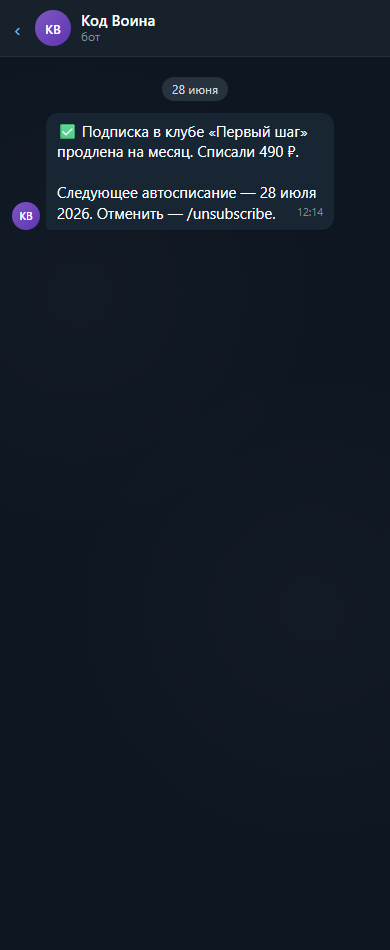
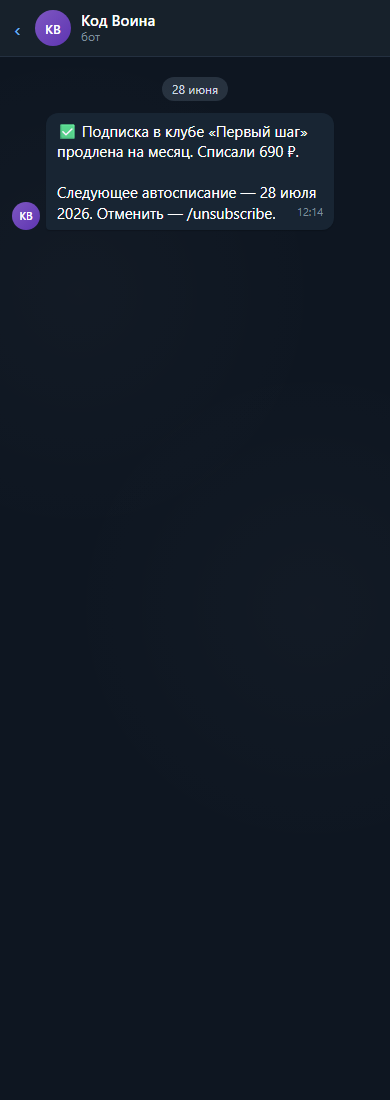
refactor: один продукт — клуб «Первый шаг» 690₽/мес с автопродлением
Убраны guide (990₽) и bundle (1390₽) из воронки. После видео сразу селлинг-сообщение про клуб и единственная кнопка «Войти в Первый шаг» → оплата YooKassa.

- config.js: YOOKASSA_AMOUNT_CLUB 490 → 690, убраны GUIDE/BUNDLE amounts
- messages.js: новый MSG3 (post-video продающий текст про комьюнити и челлендж + автопродление + /unsubscribe), BTN_ENTER_CLUB; удалены MSG_GUIDE/MSG_CLUB/MSG_BUNDLE/MSG_COMPLETED_GUIDE/BUNDLE и три buy-кнопки; везде 490 → 690; OFFER_REMINDERS переписаны без упоминания «Кода Воина»
- flow.js: AUTO_VIDEO → одна кнопка pay_club; убраны BTN_BUY_*, PAY_GUIDE/BUNDLE; handlePaymentSuccess только под club; AMOUNTS/STATES сжаты до club. BTN_RENEW_CLUB больше не шлёт MSG_CLUB (которого нет) — только createPayment
- scheduler.js: лог автосписания использует config.YOOKASSA_AMOUNT_CLUB вместо хардкода
- telegram.js: убраны registerAction buy_guide/bundle/club + pay_guide/bundle; savePaymentMethod упрощён под единственный продукт
- bot_spec_v3.md: раздел автопродления обновлён под клуб-only и 690₽
- mockups/yk: 01-msg-club перерисован под новый MSG3 + кнопку «Войти в Первый шаг»; 02-msg-bundle удалён; 03/04/05 обновлены под 690₽

Legacy-пользователи со state COMPLETED_GUIDE/BUNDLE/AWAIT_PAYMENT_GUIDE/BUNDLE остаются в БД, SQL-запросы в store.js это учитывают; новые пользователи попадают только в club-путь.

Changed region(s): [[0.0308, 0.0611, 0.8308, 0.2442], [0.0923, 0.0, 0.4, 0.0611]]

diff --git a/core/flow.js b/core/flow.js
@@ -3,26 +3,13 @@ const m = require('./messages');
 const config = require('../config');
 const yookassa = require('./yookassa');
 
-// Суммы по типу продукта
-const AMOUNTS = {
-  guide:  config.YOOKASSA_AMOUNT_GUIDE,
-  club:   config.YOOKASSA_AMOUNT_CLUB,
-  bundle: config.YOOKASSA_AMOUNT_BUNDLE,
-};
-
-// Состояния ожидания оплаты по продукту
-const AWAIT_STATES = {
-  guide:  'AWAIT_PAYMENT_GUIDE',
-  club:   'AWAIT_PAYMENT_CLUB',
-  bundle: 'AWAIT_PAYMENT_BUNDLE',
-};
-
-// Завершённые состояния по продукту
-const COMPLETED_STATES = {
-  guide:  'COMPLETED_GUIDE',
-  club:   'COMPLETED_CLUB',
-  bundle: 'COMPLETED_BUNDLE',
-};
+// Единственный продукт — клуб «Первый шаг», подписка с автопродлением.
+// AWAIT_STATES/COMPLETED_STATES оставлены как маппинг, чтобы legacy-пользователи
+// в COMPLETED_GUIDE/COMPLETED_BUNDLE (из старых заказов) корректно обрабатывались
+// поисковыми запросами в store.js — туда они зашиты текстом.
+const AMOUNTS = { club: config.YOOKASSA_AMOUNT_CLUB };
+const AWAIT_STATES = { club: 'AWAIT_PAYMENT_CLUB' };
+const COMPLETED_STATES = { club: 'COMPLETED_CLUB' };
 
 function handleAction({ chatId, action, payload }) {
   const user = store.getUser(chatId);
@@ -74,49 +61,27 @@ function handleAction({ chatId, action, payload }) {
     };
   }
 
-  // Авто VIDEO→OFFER
+  // Авто VIDEO→OFFER. Единственный продукт — клуб, поэтому кнопка ведёт сразу к оплате.
   if (action === 'AUTO_VIDEO') {
     if (state !== 'VIDEO_SENT') return { messages: [] };
     store.upsertUser(chatId, 'OFFER_SENT');
     return {
       messages: [{
         text: m.MSG3,
-        buttons3: [
-          { label: m.BTN_BUY_GUIDE,  callback: 'buy_guide' },
-          { label: m.BTN_BUY_BUNDLE, callback: 'buy_bundle' },
-          { label: m.BTN_BUY_CLUB,   callback: 'buy_club' },
-        ],
+        button: { label: m.BTN_ENTER_CLUB, callback: 'pay_club' },
       }],
     };
   }
 
-  // Просмотр тарифа — доступно из OFFER_SENT и AWAIT_PAYMENT_* (если передумал)
-  if (action === 'BTN_BUY_GUIDE' || action === 'BTN_BUY_CLUB' || action === 'BTN_BUY_BUNDLE') {
-    const canView = state === 'OFFER_SENT' || (state && state.startsWith('AWAIT_PAYMENT_'));
-    if (!canView) return { messages: [] };
-    const productMap = {
-      BTN_BUY_GUIDE:  { product: 'guide',  text: m.MSG_GUIDE,  payBtn: m.BTN_PAY_GUIDE,  payCallback: 'pay_guide' },
-      BTN_BUY_CLUB:   { product: 'club',   text: m.MSG_CLUB,   payBtn: m.BTN_PAY_CLUB,   payCallback: 'pay_club' },
-      BTN_BUY_BUNDLE: { product: 'bundle', text: m.MSG_BUNDLE, payBtn: m.BTN_PAY_BUNDLE, payCallback: 'pay_bundle' },
-    };
-    const { text, payBtn, payCallback } = productMap[action];
-    // Состояние НЕ меняем — пользователь может вернуться и выбрать другой тариф
-    return {
-      messages: [{ text, button: { label: payBtn, callback: payCallback } }],
-    };
-  }
-
-  // Подтверждение оплаты — доступно из OFFER_SENT и AWAIT_PAYMENT_* (если передумал)
-  if (action === 'PAY_GUIDE' || action === 'PAY_CLUB' || action === 'PAY_BUNDLE') {
-    const canPay = state === 'OFFER_SENT' || (state && state.startsWith('AWAIT_PAYMENT_'));
+  // Подтверждение оплаты клуба — доступно из OFFER_SENT и AWAIT_PAYMENT_CLUB (если передумал)
+  if (action === 'PAY_CLUB') {
+    const canPay = state === 'OFFER_SENT' || state === 'AWAIT_PAYMENT_CLUB';
     if (!canPay) return { messages: [] };
-    const productMap = { PAY_GUIDE: 'guide', PAY_CLUB: 'club', PAY_BUNDLE: 'bundle' };
-    const product = productMap[action];
-    store.upsertUser(chatId, AWAIT_STATES[product]);
-    store.saveProductType(chatId, product);
+    store.upsertUser(chatId, AWAIT_STATES.club);
+    store.saveProductType(chatId, 'club');
     return {
       messages: [],
-      createPayment: product,
+      createPayment: 'club',
     };
   }
 
@@ -128,11 +93,7 @@ function handleAction({ chatId, action, payload }) {
     return {
       messages: [{
         text,
-        buttons3: [
-          { label: m.BTN_BUY_GUIDE,  callback: 'buy_guide' },
-          { label: m.BTN_BUY_BUNDLE, callback: 'buy_bundle' },
-          { label: m.BTN_BUY_CLUB,   callback: 'buy_club' },
-        ],
+        button: { label: m.BTN_ENTER_CLUB, callback: 'pay_club' },
       }],
     };
   }
@@ -160,12 +121,12 @@ function handleAction({ chatId, action, payload }) {
     };
   }
 
-  // Продление клуба
+  // Ручное продление клуба (BTN_RENEW_CLUB или BTN_RESUME_CLUB)
   if (action === 'BTN_RENEW_CLUB') {
     store.upsertUser(chatId, 'AWAIT_PAYMENT_CLUB');
     store.saveProductType(chatId, 'club');
     return {
-      messages: [{ text: m.MSG_CLUB }],
+      messages: [],
       createPayment: 'club',
     };
   }
@@ -183,11 +144,7 @@ function handleAction({ chatId, action, payload }) {
       return {
         messages: [{
           text: m.FALLBACK_PRESS_BUTTON,
-          buttons3: [
-            { label: m.BTN_BUY_GUIDE,  callback: 'buy_guide' },
-            { label: m.BTN_BUY_BUNDLE, callback: 'buy_bundle' },
-            { label: m.BTN_BUY_CLUB,   callback: 'buy_club' },
-          ],
+          button: { label: m.BTN_ENTER_CLUB, callback: 'pay_club' },
         }],
       };
     }
@@ -203,41 +160,18 @@ function handleAction({ chatId, action, payload }) {
 // Вызывается после успешного платежа ЮКассой.
 // paymentMethodId — id сохранённой карты, передаётся scheduler'ом если save_payment_method=true.
 async function handlePaymentSuccess({ chatId, product, createInvite, paymentMethodId }) {
-  const completedState = COMPLETED_STATES[product] || 'COMPLETED_GUIDE';
-  store.upsertUser(chatId, completedState);
+  store.upsertUser(chatId, 'COMPLETED_CLUB');
   store.setCompletedAt(chatId);
 
-  if (product === 'guide') {
-    return {
-      messages: [{ text: m.MSG_COMPLETED_GUIDE, banner: config.BANNERS.msg11 }],
-      files: ['guide', 'tracker', 'print_tracker'],
-      trailingMessages: [{ text: m.MSG_COMPLETED_GUIDE_TRAILING }],
-    };
-  }
-
-  // Для club/bundle — сохраняем дату истечения, метод оплаты и включаем автопродление
   const expires = new Date(Date.now() + config.CLUB_ACCESS_DAYS * 24 * 60 * 60 * 1000).toISOString();
   store.saveClubExpiry(chatId, expires);
   store.setAutoRenew(chatId, true);
   if (paymentMethodId) store.savePaymentMethodId(chatId, paymentMethodId);
 
-  if (product === 'club') {
-    const inviteUrl = await createInvite(chatId);
-    return {
-      messages: [{ text: m.MSG_COMPLETED_CLUB(inviteUrl, expires) }],
-    };
-  }
-
-  if (product === 'bundle') {
-    const inviteUrl = await createInvite(chatId);
-    return {
-      messages: [{ text: m.MSG_COMPLETED_GUIDE, banner: config.BANNERS.msg11 }],
-      files: ['guide', 'tracker', 'print_tracker'],
-      trailingMessages: [{ text: m.MSG_COMPLETED_BUNDLE(inviteUrl, expires) }],
-    };
-  }
-
-  return { messages: [] };
+  const inviteUrl = await createInvite(chatId);
+  return {
+    messages: [{ text: m.MSG_COMPLETED_CLUB(inviteUrl, expires) }],
+  };
 }
 
 module.exports = { handleAction, handlePaymentSuccess, AWAIT_STATES, COMPLETED_STATES };

diff --git a/mockups/yk/01-msg-club.html b/mockups/yk/01-msg-club.html
@@ -13,16 +13,29 @@
     <div class="day">сегодня</div>
     <div class="group">
       <div class="avatar-mini">КВ</div>
-      <div class="bubble">«Первый шаг» — это закрытый канал в Telegram, где я каждый день делюсь живым. Мысли, трудности, маленькие победы. Голосовые, фото, видео. Без монтажа и сценария.
+      <div class="bubble">Спасибо, что досмотрел.
 
-С 30 мая мы запускаем челлендж «30 дней. Одна привычка». Я выбираю свою привычку и каждый день отчитываюсь. Ты выбираешь свою. Мы идём вместе.
+Ты теперь знаешь, как включить фразу-якорь. Это работает. Но по себе знаю: одно дело сделать раз, другое — каждый день. Без поддержки легко соскользнуть обратно. Легко забыть. А завтра имеет свойство не наступать.
 
-490 рублей в месяц. Подписка с автопродлением — каждый месяц 490 ₽ списываются автоматически с той же карты. Отменить можно в любой момент командой /unsubscribe.
+«Первый шаг» — это место, где ты перестаёшь откладывать.
 
-После оплаты я пришлю ссылку-приглашение в течение 1 минуты 👌<div class="time">14:32</div></div>
+Здесь ты получаешь не просто контент. Ты получаешь попутчика. Каждое утро — голосовое, которое помогает тебе встать и начать. Не абстрактная мотивация, а живой человек, который говорит тебе: «Я тоже встаю. Давай вместе». Это срабатывает, когда твоя собственная дисциплина даёт сбой.
+
+Здесь ты закрываешь главную боль: «Я начинаю и бросаю». Потому что теперь ты не один. Ты в комьюнити, где люди смотрят в одну сторону. Где каждый день кто-то ждёт твой отчёт. И ты не хочешь подвести. Это держит лучше любых напоминаний.
+
+В июне мы заходим в челлендж «30 дней. Одна привычка». Ты берёшь одну привычку, которую давно хочешь внедрить, но не получалось. Я беру свою. Каждый день ты отчитываешься. Я отчитываюсь. Мы идём вместе. Без пропусков. И каждый месяц будут разные челленджи с поддержкой!
+
+Если ты устал начинать и бросать, если тебе нужен не просто контент, а кто-то, кто разбудит тебя утром и скажет: «Погнали», оставайся.
+
+690 рублей в месяц. Твой личный пинок, который не даст сдаться.
+А для меня это вклад в мою постоянную реабилитацию.
+
+Входи. Я тебя не подведу.
+
+Подписка с автопродлением — 690 ₽ списываются автоматически каждый месяц с той же карты. Отменить можно в любой момент командой /unsubscribe.<div class="time">14:32</div></div>
     </div>
     <div class="kbd">
-      <div class="btn">Войти в клуб за 490 рублей</div>
+      <div class="btn">Войти в Первый шаг</div>
     </div>
   </div>
 </div>

diff --git a/adapters/telegram.js b/adapters/telegram.js
@@ -129,10 +129,10 @@ async function send(chatId, result) {
 async function sendWithPayment(chatId, result) {
   if (result.createPayment && config.YOOKASSA_SHOP_ID) {
     const product = result.createPayment;
-    const amount = config[`YOOKASSA_AMOUNT_${product.toUpperCase()}`] || 990;
-    // save_payment_method для club/bundle — но только если YooKassa включила «Автоплатежи».
-    // До этого передавать флаг небезопасно: YooKassa вернёт ошибку и платёж не создастся.
-    const savePaymentMethod = config.AUTORENEW_ENABLED && (product === 'club' || product === 'bundle');
+    const amount = config[`YOOKASSA_AMOUNT_${product.toUpperCase()}`] || config.YOOKASSA_AMOUNT_CLUB;
+    // save_payment_method передаём только если YooKassa включила «Автоплатежи».
+    // До этого флаг небезопасен: YooKassa вернёт ошибку и платёж не создастся.
+    const savePaymentMethod = config.AUTORENEW_ENABLED;
     try {
       const payment = await yookassa.createPayment(chatId, amount, { savePaymentMethod });
       store.savePaymentId(chatId, payment.id);
@@ -304,19 +304,13 @@ function start() {
   });
 
   // Кнопки цепочки
-  registerAction('consent',    'BTN_CONSENT');
-  registerAction('watch_video','BTN_WATCH_VIDEO');
-  // Просмотр тарифа (состояние не меняется)
-  registerAction('buy_guide',  'BTN_BUY_GUIDE');
-  registerAction('buy_club',   'BTN_BUY_CLUB');
-  registerAction('buy_bundle', 'BTN_BUY_BUNDLE');
-  // Подтверждение оплаты (состояние меняется, создаётся платёж)
-  registerAction('pay_guide',  'PAY_GUIDE');
-  registerAction('pay_club',   'PAY_CLUB');
-  registerAction('pay_bundle', 'PAY_BUNDLE');
-  registerAction('renew_club',   'BTN_RENEW_CLUB');
+  registerAction('consent',     'BTN_CONSENT');
+  registerAction('watch_video', 'BTN_WATCH_VIDEO');
+  // Единственная кнопка оплаты — клуб; ведёт сразу на YooKassa
+  registerAction('pay_club',    'PAY_CLUB');
+  registerAction('renew_club',  'BTN_RENEW_CLUB');
   // BTN_CLUB_CANCEL = «Отключить автопродление» (старое название callback сохранено)
-  registerAction('club_cancel',  'BTN_CLUB_CANCEL');
+  registerAction('club_cancel', 'BTN_CLUB_CANCEL');
 
   // Менеджер: кнопка «Ответить»
   bot.action(/^reply_(\d+)$/, async (ctx) => {

diff --git a/core/scheduler.js b/core/scheduler.js
@@ -83,7 +83,7 @@ function startScheduler(adapter) {
           const payment = await yookassa.getPayment(payment_id);
           if (payment.status === 'succeeded') {
             const user = store.getUser(chat_id);
-            const product = user ? user.product_type : 'guide';
+            const product = user && user.product_type ? user.product_type : 'club';
             // Сразу сбрасываем payment_id чтобы следующий цикл не обработал повторно
             store.savePaymentId(chat_id, null);
             // Сохранённый метод оплаты (есть только если save_payment_method=true сработал —
@@ -196,7 +196,7 @@ function startScheduler(adapter) {
             await adapter.send(chatId, {
               messages: [{ text: m.MSG_AUTORENEW_SUCCESS(newExpiry) }],
             });
-            console.log(`[autorenew] ✅ charged ${chatId} 490₽, next ${newExpiry}`);
+            console.log(`[autorenew] ✅ charged ${chatId} ${config.YOOKASSA_AMOUNT_CLUB}₽, next ${newExpiry}`);
           } else {
             // canceled / pending / waiting_for_capture — считаем неудачей, повторим через 6ч
             store.markAutorenewFailed(chatId);

diff --git a/mockups/yk/04-reminder-3days.html b/mockups/yk/04-reminder-3days.html
@@ -13,12 +13,12 @@
     <div class="day">25 июня</div>
     <div class="group">
       <div class="avatar-mini">КВ</div>
-      <div class="bubble">Привет! Через 3 дня твоя подписка в клубе «Первый шаг» автоматически продлится на месяц — спишется 490 ₽ с твоей карты.
+      <div class="bubble">Привет! Через 3 дня твоя подписка в клубе «Первый шаг» автоматически продлится на месяц — спишется 690 ₽ с твоей карты.
 
 Если хочешь отменить — /unsubscribe или кнопка ниже 👇<div class="time">10:00</div></div>
     </div>
     <div class="kbd">
-      <div class="btn">Продлить за 490 ₽</div>
+      <div class="btn">Продлить за 690 ₽</div>
       <div class="btn">Отключить автопродление</div>
     </div>
   </div>

diff --git a/config.js b/config.js
@@ -6,10 +6,8 @@ module.exports = {
   // ЮКасса
   YOOKASSA_SHOP_ID: process.env.YOOKASSA_SHOP_ID || '',
   YOOKASSA_SECRET_KEY: process.env.YOOKASSA_SECRET_KEY || '',
-  // Суммы по тарифам
-  YOOKASSA_AMOUNT_GUIDE:  990,
-  YOOKASSA_AMOUNT_CLUB:   490,
-  YOOKASSA_AMOUNT_BUNDLE: 1390,
+  // Единственный продукт — клуб «Первый шаг», подписка с автопродлением
+  YOOKASSA_AMOUNT_CLUB: 690,
 
   // Автосписание клуба. Включается во .env=true ПОСЛЕ того, как YooKassa подключит
   // опцию «Автоплатежи» в кабинете (по запросу со скринами UX). До этого UX-тексты

diff --git a/mockups/yk/03-completed-club.html b/mockups/yk/03-completed-club.html
@@ -20,7 +20,7 @@ https://t.me/+ABC123XYZ
 
 Ссылка одноразовая — только для тебя. Переходи и заходи в канал.
 
-Подписка с автопродлением активна. Следующее списание 490 ₽ — 28 июня 2026. Отменить автопродление можно в любой момент командой /unsubscribe.
+Подписка с автопродлением активна. Следующее списание 690 ₽ — 28 июня 2026. Отменить автопродление можно в любой момент командой /unsubscribe.
 
 Увидимся внутри 🤝
 — Саша<div class="time">14:38</div></div>

diff --git a/mockups/yk/05-autorenew-success.html b/mockups/yk/05-autorenew-success.html
@@ -13,7 +13,7 @@
     <div class="day">28 июня</div>
     <div class="group">
       <div class="avatar-mini">КВ</div>
-      <div class="bubble">✅ Подписка в клубе «Первый шаг» продлена на месяц. Списали 490 ₽.
+      <div class="bubble">✅ Подписка в клубе «Первый шаг» продлена на месяц. Списали 690 ₽.
 
 Следующее автосписание — 28 июля 2026. Отменить — /unsubscribe.<div class="time">12:14</div></div>
     </div>

diff --git a/bot_spec_v3.md b/bot_spec_v3.md
@@ -614,7 +614,9 @@ BANNERS: {
 
 ## 💳 АВТОПРОДЛЕНИЕ КЛУБА (recurrent / YooKassa save_payment_method)
 
-Подписка с автосписанием для продуктов `club` (490 ₽/мес) и `bundle` (первый месяц включён в 1390 ₽, со 2-го месяца — 490 ₽/мес).
+Единственный продукт — клуб «Первый шаг», **690 ₽/мес** с автопродлением (`YOOKASSA_AMOUNT_CLUB` в `config.js`). Гайд (990 ₽) и бандл (1390 ₽) убраны из воронки. После видео (`AUTO_VIDEO`) пользователь видит селлинг-сообщение `MSG3` и единственную кнопку «Войти в Первый шаг» (callback `pay_club`) — она ведёт сразу к оплате через YooKassa, без промежуточного выбора тарифа.
+
+Legacy-пользователи со старыми `state IN (COMPLETED_GUIDE, COMPLETED_BUNDLE, AWAIT_PAYMENT_GUIDE, AWAIT_PAYMENT_BUNDLE)` остаются в БД и поддерживаются SQL-запросами в `store.js` (для bundle — даже автопродление продолжает работать, если карта была сохранена). Новые пользователи могут оказаться только в `AWAIT_PAYMENT_CLUB → COMPLETED_CLUB`.
 
 ### Архитектура
 
@@ -626,7 +628,7 @@ BANNERS: {
   - `createPayment(chatId, amount, { savePaymentMethod })` — при `savePaymentMethod=true` передаёт `save_payment_method: true` в YK, и после `succeeded` метод сохраняется (поле `payment.payment_method.id` + `payment.payment_method.saved=true`)
   - `chargeSaved(paymentMethodId, amount, chatId, description)` — off-session списание по сохранённому методу (recurrent)
 - **Сохранение метода** — `core/scheduler.js` поллит `getPendingPayments`, при `succeeded` достаёт `payment.payment_method.id` (если есть) и передаёт во `flow.handlePaymentSuccess`, который сохраняет в БД и взводит `auto_renew=1`
-- **Cron автосписания** — отдельный часовой job в `scheduler.js`, активен только при `AUTORENEW_ENABLED=true && YOOKASSA_SHOP_ID`. Окно 9:00–21:00 МСК. Берёт через `store.getUsersForAutoRenew(12)` пользователей с истечением в ближайшие 12 часов, валидным `payment_method_id`, `auto_renew=1` и без свежей неудачи (`autorenew_failed_at` старше 6 часов). На каждого делает `chargeSaved` на 490 ₽:
+- **Cron автосписания** — отдельный часовой job в `scheduler.js`, активен только при `AUTORENEW_ENABLED=true && YOOKASSA_SHOP_ID`. Окно 9:00–21:00 МСК. Берёт через `store.getUsersForAutoRenew(12)` пользователей с истечением в ближайшие 12 часов, валидным `payment_method_id`, `auto_renew=1` и без свежей неудачи (`autorenew_failed_at` старше 6 часов). На каждого делает `chargeSaved` на 690 ₽:
   - `status='succeeded'` → `store.extendClubExpiry(chatId, 30)` (продлевает от текущего `club_expires_at`, не от now — если ещё не истёк) + сбрасывает `club_reminder_count=0` + `MSG_AUTORENEW_SUCCESS(newExpiry)`
   - `status` другой или HTTP-ошибка → `markAutorenewFailed` + `MSG_AUTORENEW_FAILED` с кнопкой `BTN_RENEW_CLUB` для ручного продления
 - **Команда `/unsubscribe`** (`adapters/telegram.js`) и кнопка `BTN_CLUB_CANCEL` («Отключить автопродление») → action `UNSUBSCRIBE` → `store.setAutoRenew(chatId, false)` (= `auto_renew=0` + `club_cancel=1` для совместимости со старым ремайндером) → MSG_CLUB_CANCEL_CONFIRM с датой окончания доступа. Доступ сохраняется до `club_expires_at`, дальше кикер удаляет.
@@ -640,7 +642,7 @@ BANNERS: {
 - В `createPayment` НЕ передаётся `save_payment_method: true` (иначе YK вернёт ошибку и платёж не создастся)
 - Cron автосписания НЕ регистрируется (в логе: `[scheduler] autorenew DISABLED`)
 - Все UX-тексты про автопродление показываются как обычно (мокапы можно делать) — но фактически метод не сохраняется и cron не списывает
-- Работает старый ручной ремайндер о продлении (за 3д/1д/0д) — текст обещает автосписание, но его не будет; пользователь может продлить вручную кнопкой «Продлить за 490 ₽». Это временная неконсистенция от deploy до подключения YK
+- Работает старый ручной ремайндер о продлении (за 3д/1д/0д) — текст обещает автосписание, но его не будет; пользователь может продлить вручную кнопкой «Продлить за 690 ₽». Это временная неконсистенция от deploy до подключения YK
 
 **`true` (production, после активации):**
 
@@ -662,9 +664,9 @@ BANNERS: {
 
 ### Сообщения и кнопки
 
-- `MSG_CLUB`, `MSG_BUNDLE` — экраны покупки с упоминанием автопродления 490 ₽/мес и команды `/unsubscribe`
-- `MSG_COMPLETED_CLUB(inviteUrl, nextChargeIso)`, `MSG_COMPLETED_BUNDLE(...)` — после оплаты, с датой следующего списания в формате «28 июня 2026»
-- `MSG_CLUB_REMINDER_3 / _1 / _0` — heads-up за 3д/1д/в день («через N дней автоматически продлится — спишется 490 ₽»)
+- `MSG3` — селлинг-экран после видео с упоминанием автопродления 690 ₽/мес и команды `/unsubscribe`, плюс кнопка `BTN_ENTER_CLUB` («Войти в Первый шаг»)
+- `MSG_COMPLETED_CLUB(inviteUrl, nextChargeIso)` — после оплаты, с датой следующего списания в формате «28 июня 2026»
+- `MSG_CLUB_REMINDER_3 / _1 / _0` — heads-up за 3д/1д/в день («через N дней автоматически продлится — спишется 690 ₽»)
 - `MSG_AUTORENEW_SUCCESS(nextIso)` — после успешного cron-списания
 - `MSG_AUTORENEW_FAILED` — после неудачи, с кнопкой ручного продления
 - `MSG_CLUB_CANCEL_CONFIRM(expiresIso)` — после `/unsubscribe`, с датой окончания доступа
